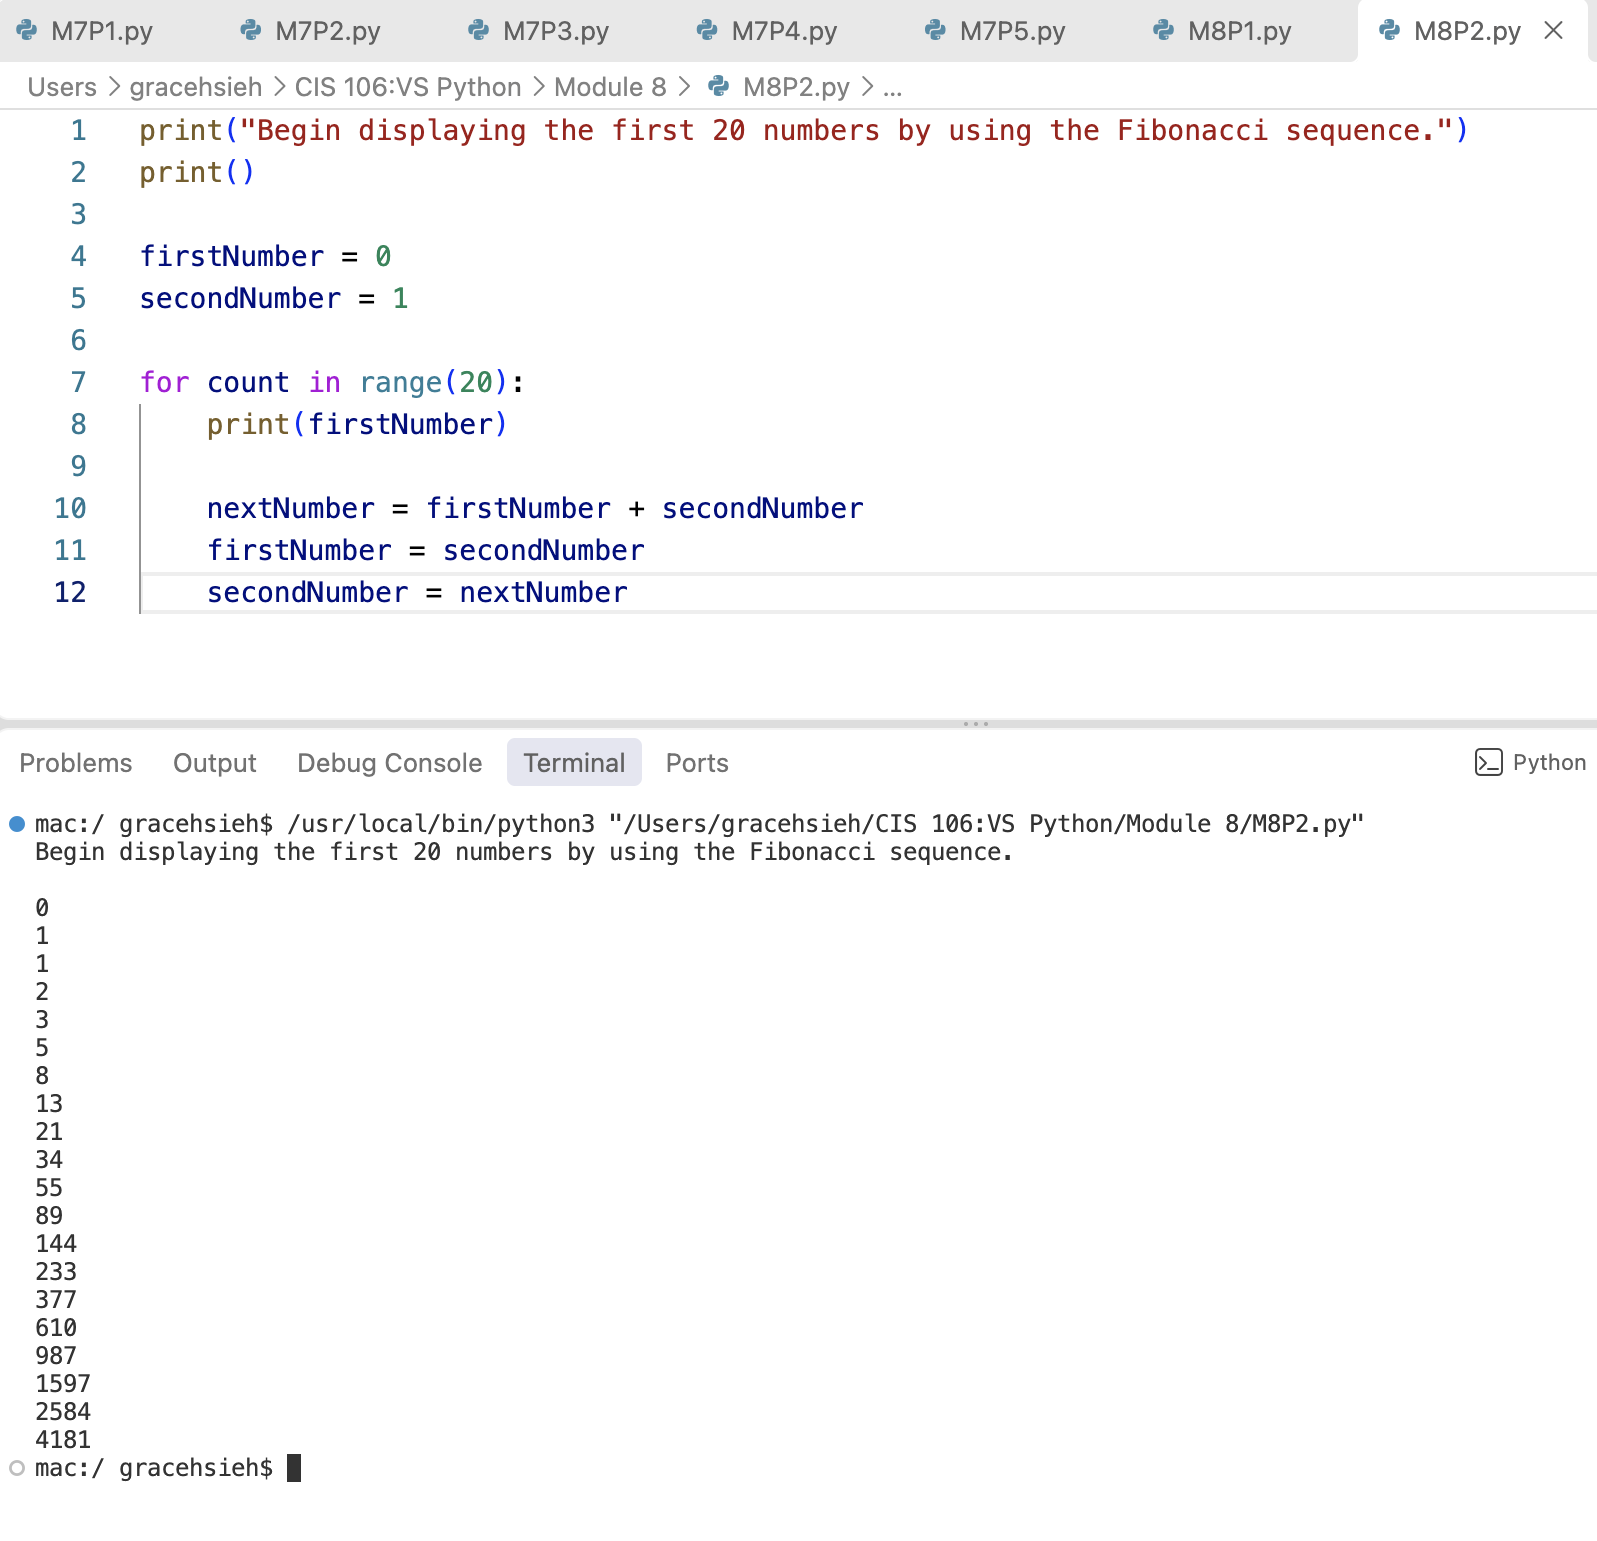
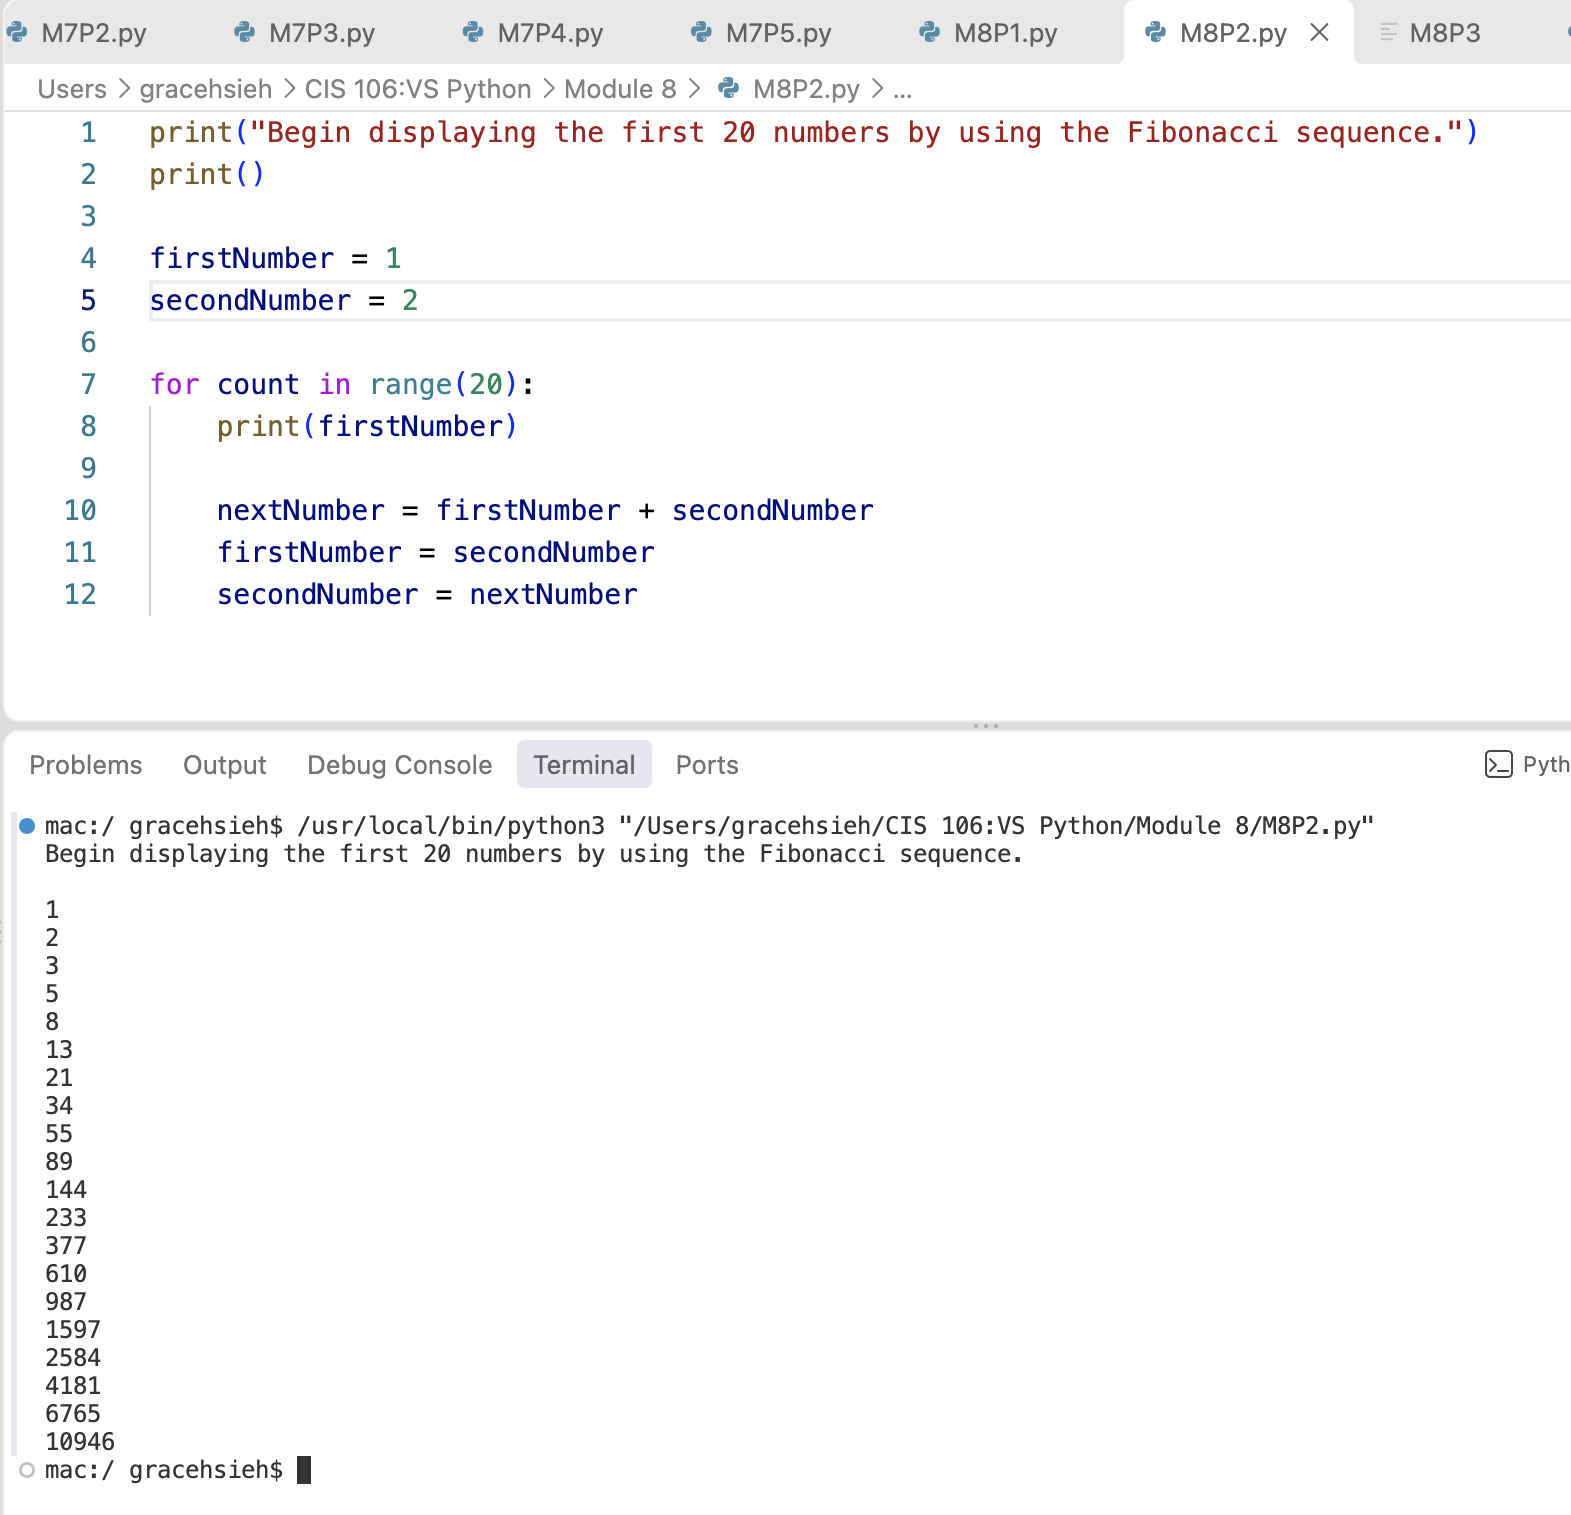
Add files via upload

diff --git a/M8P2.py b/M8P2.py
@@ -1,8 +1,8 @@
 print("Begin displaying the first 20 numbers by using the Fibonacci sequence.")
 print()
 
-firstNumber = 0
-secondNumber = 1
+firstNumber = 1
+secondNumber = 2
 
 for count in range(20):
     print(firstNumber)
